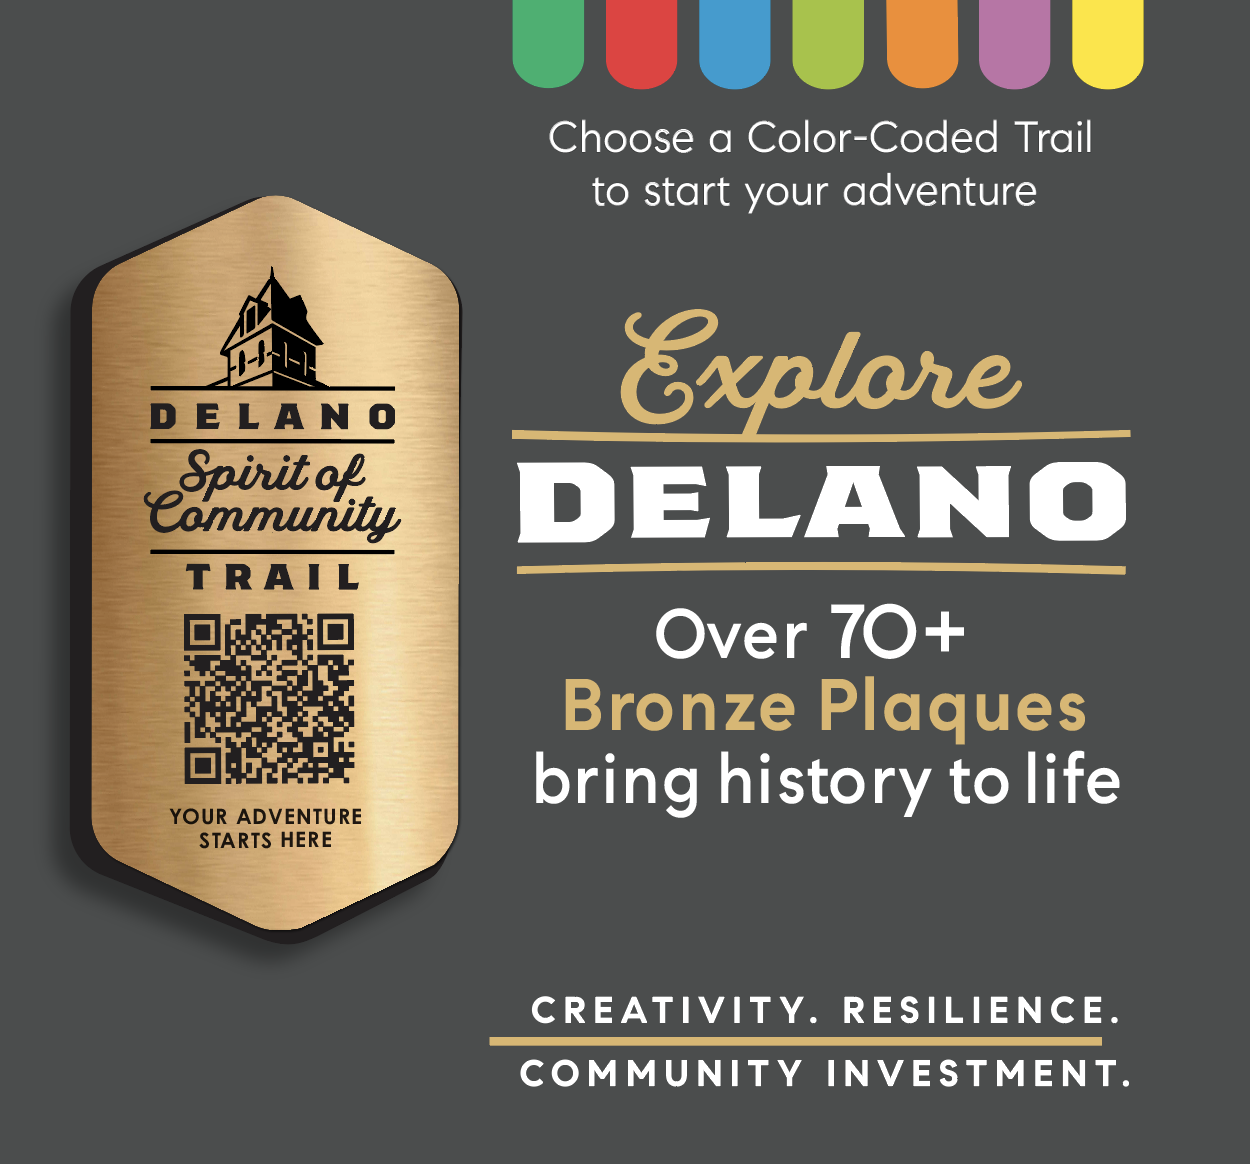
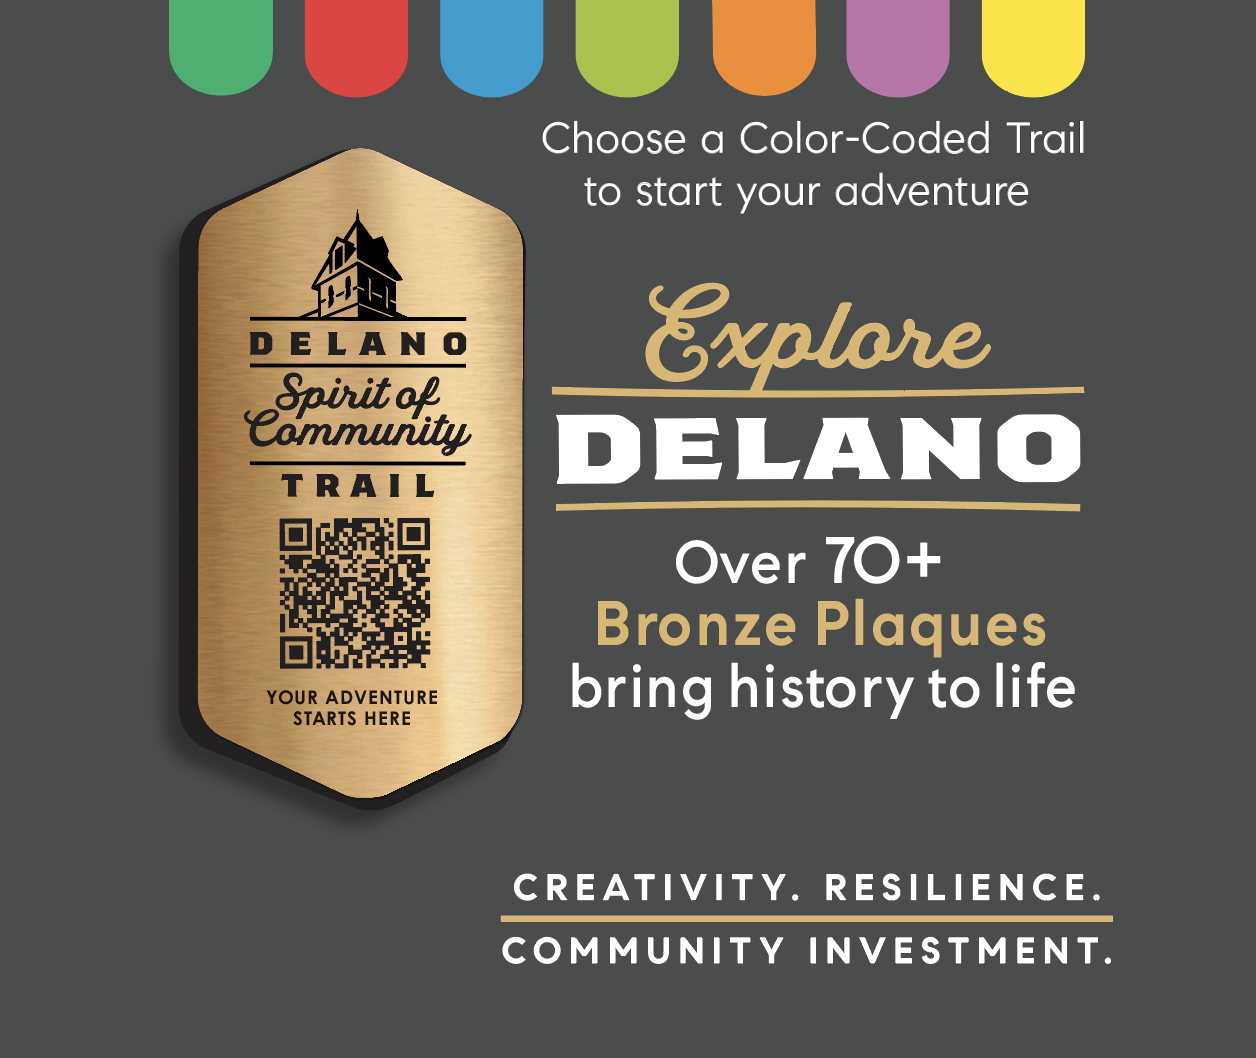
Swap in the third Explore Delano header, with its wider colour tabs opening the trails

diff --git a/src/Panels.tsx b/src/Panels.tsx
@@ -44,14 +44,14 @@ export function HomePanel({ trails, stops, go, onReplay }: { trails: Trail[]; st
     <div className="view home">
       <header className="masthead">
         <h1>
-          <img className="banner" src="./delano-trail-home.png" width={1250} height={1164}
+          <img className="banner" src="./delano-trail-home.png" width={1256} height={1058}
             alt="Explore Delano. Over 70 bronze plaques bring history to life. Choose a color-coded trail to start your adventure. Creativity. Resilience. Community investment." />
         </h1>
         {/* The seven colour tabs along the top of the artwork each open their trail. */}
         {HOME_CIRCLES.map((id, i) => {
           const t = trails.find((x) => x.id === id)
           return t && (
-            <button key={id} className="home-dot" style={{ left: `${((548 + i * 93.4 - 46.7) / 1250) * 100}%` }}
+            <button key={id} className="home-dot" style={{ left: `${((221 + i * 135.4 - 67.7) / 1256) * 100}%` }}
               onClick={() => go({ view: 'trail', trail: t.id })} aria-label={t.name} title={t.name} />
           )
         })}

diff --git a/src/styles.css b/src/styles.css
@@ -130,7 +130,7 @@ h1, h2 { font-family: var(--serif); font-weight: 600; line-height: 1.1; margin: 
 /* The gold trail banner runs edge to edge across the top of the home panel. */
 .masthead { position: relative; margin: 0 calc(var(--gutter) * -1); }
 .masthead h1 { margin: 0; }
-.home-dot { position: absolute; top: 0; width: 7.47%; height: 9.5%; padding: 0; border: 0; border-radius: 0 0 999px 999px; background: none; cursor: pointer; }
+.home-dot { position: absolute; top: 0; width: 10.78%; height: 10.5%; padding: 0; border: 0; border-radius: 0 0 999px 999px; background: none; cursor: pointer; }
 .home-dot:hover, .home-dot:active { background: rgb(255 255 255 / 0.25); }
 .banner { display: block; width: 100%; height: auto; }
 .lede { margin: 26px 0 0; padding-top: 20px; border-top: 1.5px solid var(--rule); font-size: 17px; color: var(--ink-soft); }
